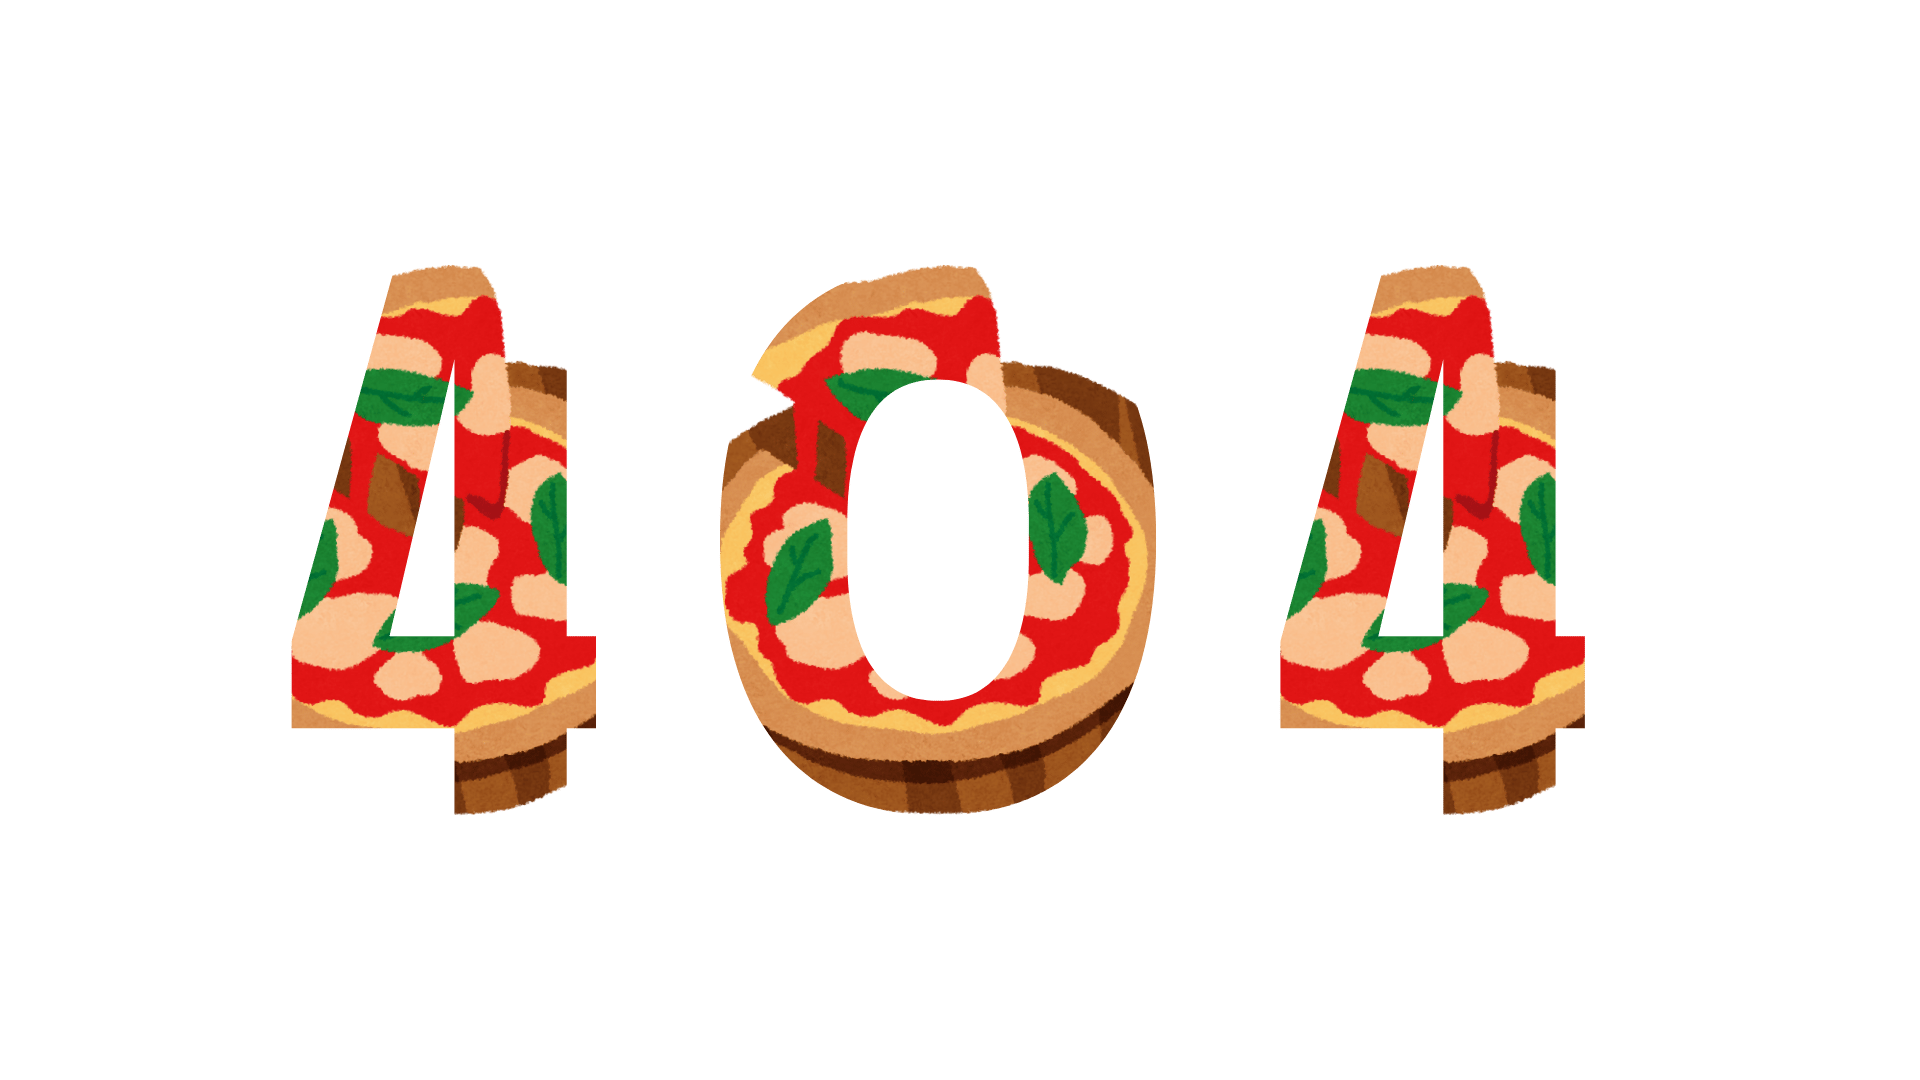
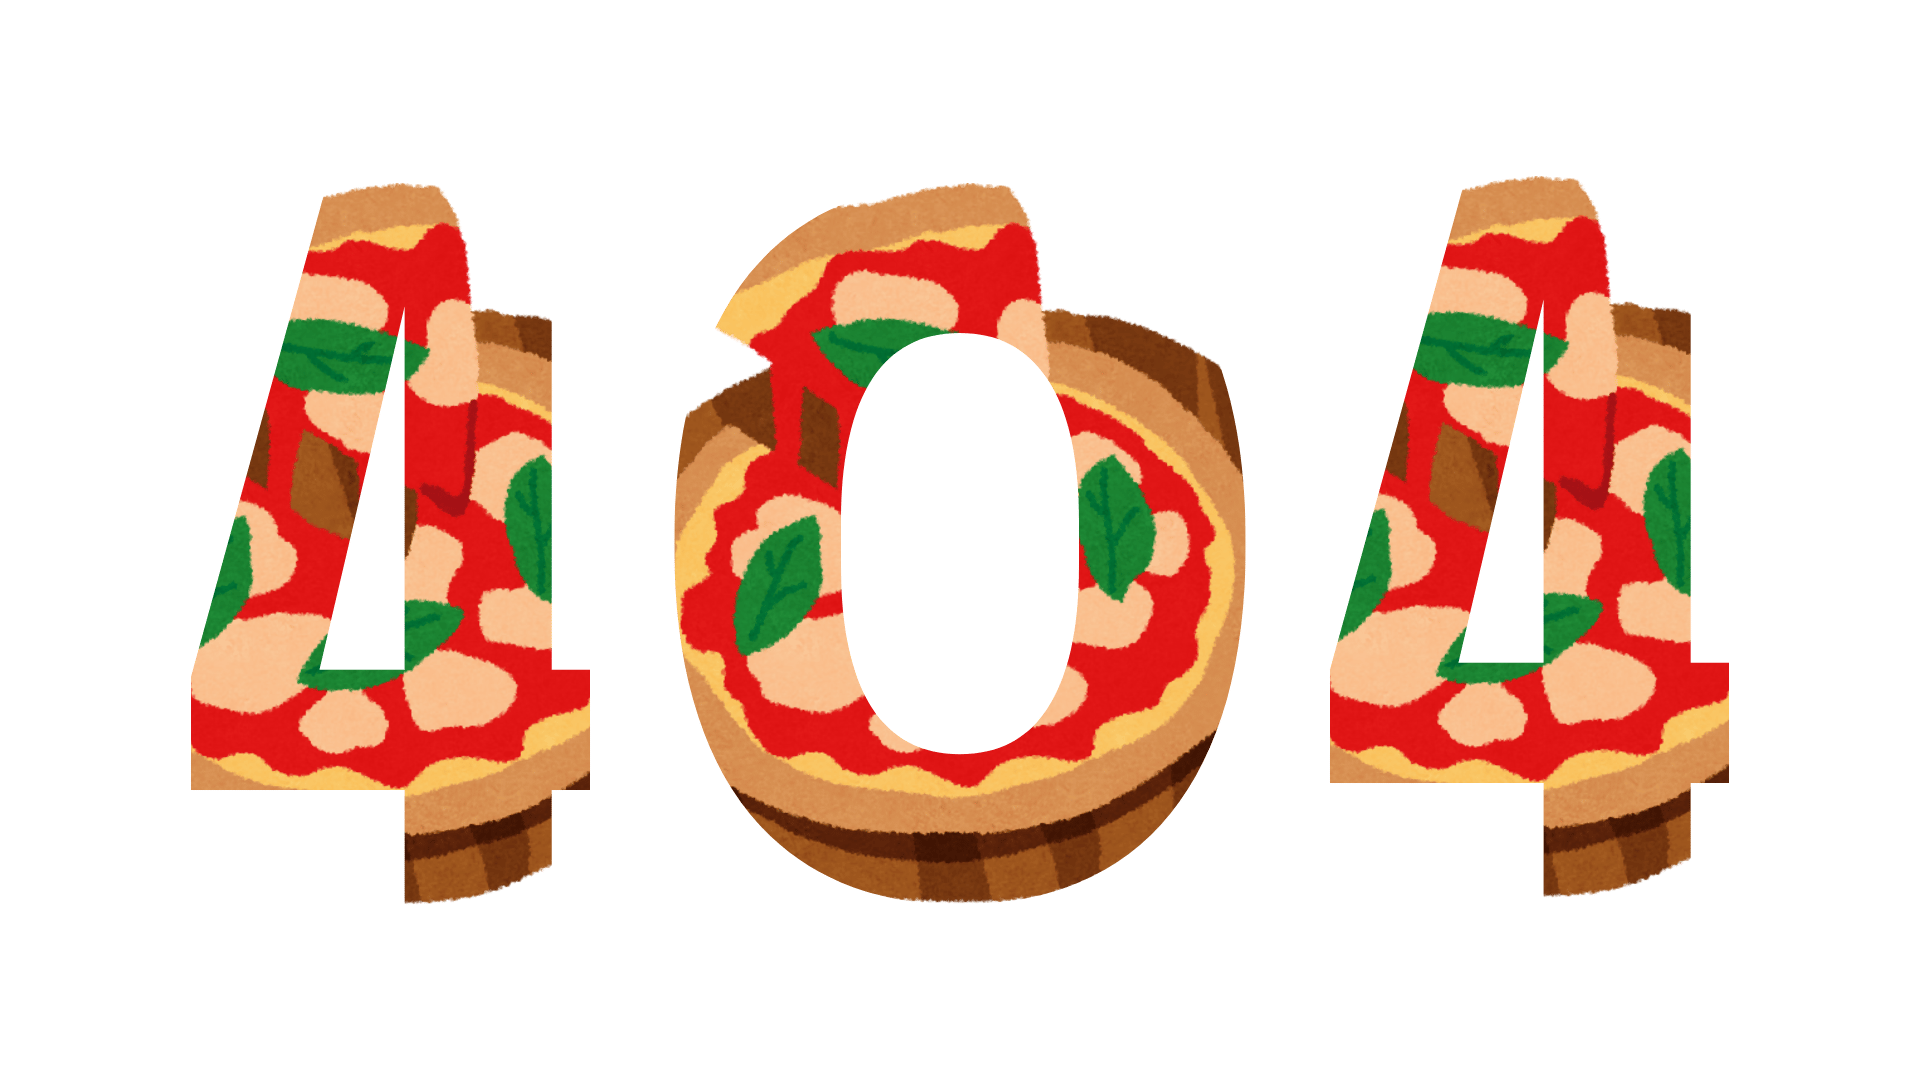
pagine di errore 404 e 500

diff --git a/src/template/pageTemplate/error/error500.html b/src/template/pageTemplate/error/error500.html
@@ -3,24 +3,43 @@
 <head>
   <meta charset="UTF-8">
   <meta name="viewport" content="width=device-width, initial-scale=1.0">
-  <title>500 - Errore del server | Non solo pizza</title>
-  <link rel="stylesheet" href="style/style.css" media="screen">
+  <title>Errore 500 | Non solo pizza</title>
+  <link rel="stylesheet" href="../../../style/style.css" media="screen">
 </head>
-<body>
-<!-- Header da template -->
-[HEADER]
+<body id="homePage">
+
+
+<header>
+  <nav aria-label="Aiuti alla navigazione">
+    <ul class="listHelp">
+      <li><a href="#content" class="navigationHelp">Vai al contenuto</a></li>
+      <li><a href="#menu" class="navigationHelp">Vai alla navigazione</a></li>
+    </ul>
+  </nav>
+  <img src="../../../assets/logo/logo.png" alt="Logo Non solo pizza">
+
+  <nav id="menu">
+    <ul>
+      <li id='currentLink' lang='en'><a href='../../../index.php'>Home</a></li>
+      <li><a href='../../../chi-siamo.php'>Chi siamo</a></li>
+    </ul>
+  </nav>
+</header>
+
+<nav id="breadcrumb" aria-label="Breadcrumb">
+  <p>Sei in: <span lang="en">Home</span></p>
+</nav>
 
 <main id="content">
-  <div class="error-content">
-    <h1 class="error-title">Errore 500</h1>
-    <span class="pizza-emoji">👨🍳</span>
+
+  <section id="intro" class="error-section">
+    <h3 id="error500">Errore 500</h3>
     <p class="error-message">Mamma mia! Il nostro forno ha avuto un problema!</p>
     <p>I nostri pizzaioli stanno lavorando per risolvere il problema. Torna tra poco!</p>
-    <a href="index.php" class="home-button">Torna al menu principale</a>
-  </div>
+    <a href="index.php" class="home-button" id="btnErrorPage">Torna al menu principale</a>
+  </section>
 </main>
 
-<!-- Footer da template -->
-[FOOTER]
 </body>
 </html>
+

diff --git a/src/style/style.css b/src/style/style.css
@@ -229,21 +229,32 @@ ERROR PAGE
     position: relative;
 }
 
-.error-img{
-    width: 50em;
-    text-align: center;
-    margin-top: -2em;
-    margin-bottom: -3em;
+#error404{
+    font-size: 20em;
+    line-height: 1.5em;
+    background-image: url('../assets/grafiche/404.png');
+    background-size: contain;
+    background-repeat: no-repeat;
+    background-position: center;
+    text-indent: -9999px;
+}
+
+#error500{
+    font-size: 20em;
+    line-height: 1.5em;
+    background-image: url('../assets/grafiche/500.png');
+    background-size: contain;
+    background-repeat: no-repeat;
+    background-position: center;
+    text-indent: -9999px;
 }
 
 .error-section{
     background-color: var(--bgcolor);
 }
 
-.error-section h2 {
-    text-align: center;
-    margin-top: 0.5em;
-    margin-bottom: 0.5em;
+#btnErrorPage{
+    margin-top: 2em;
 }
 
 /*

diff --git a/src/template/pageTemplate/error/error404.html b/src/template/pageTemplate/error/error404.html
@@ -3,7 +3,7 @@
 <head>
   <meta charset="UTF-8">
   <meta name="viewport" content="width=device-width, initial-scale=1.0">
-  <title>Ops | Non solo pizza</title>
+  <title>Errore 400 | Non solo pizza</title>
   <link rel="stylesheet" href="../../../style/style.css" media="screen">
 </head>
 <body id="homePage">
@@ -33,10 +33,10 @@
 <main id="content">
 
   <section id="intro" class="error-section">
-    <img src="../../../assets/grafiche/404.png" class="error-img">
+    <h3 id="error404">Errore 404</h3>
     <p class="error-message">Ops! Questa fetta di pizza è andata persa...</p>
     <p>La pagina che stai cercando non esiste, forse è finita nel forno!</p>
-    <a href="index.php" class="home-button">Torna al menu principale</a>
+    <a href="index.php" class="home-button" id="btnErrorPage">Torna al menu principale</a>
   </section>
 </main>
 
